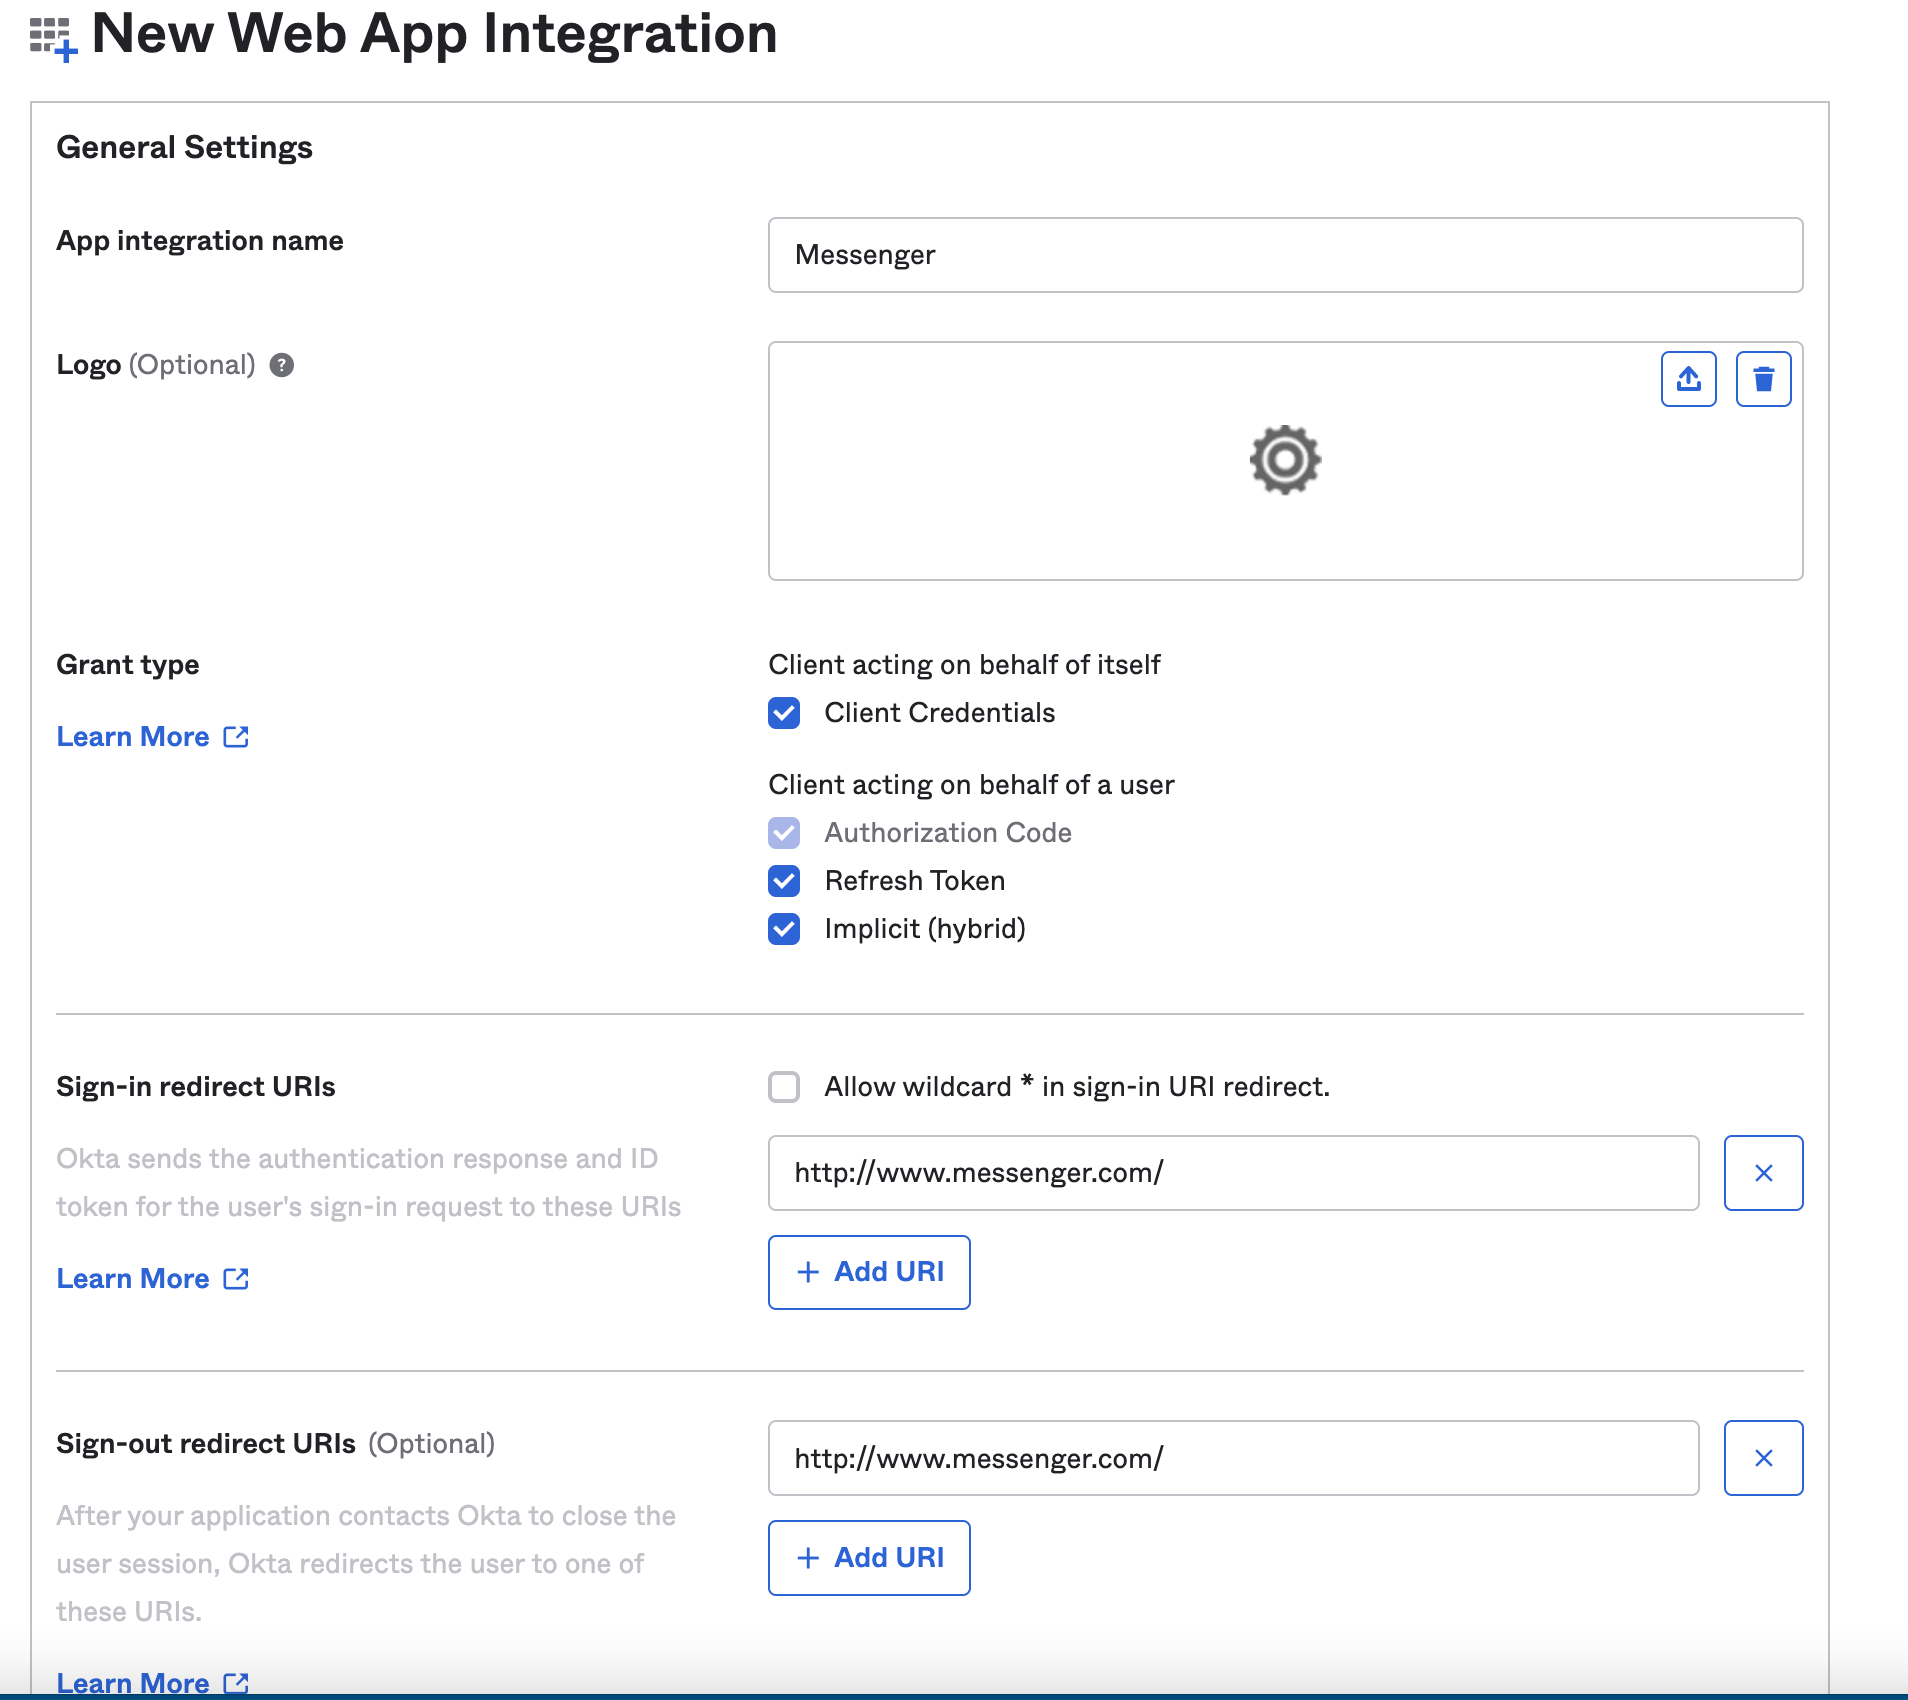
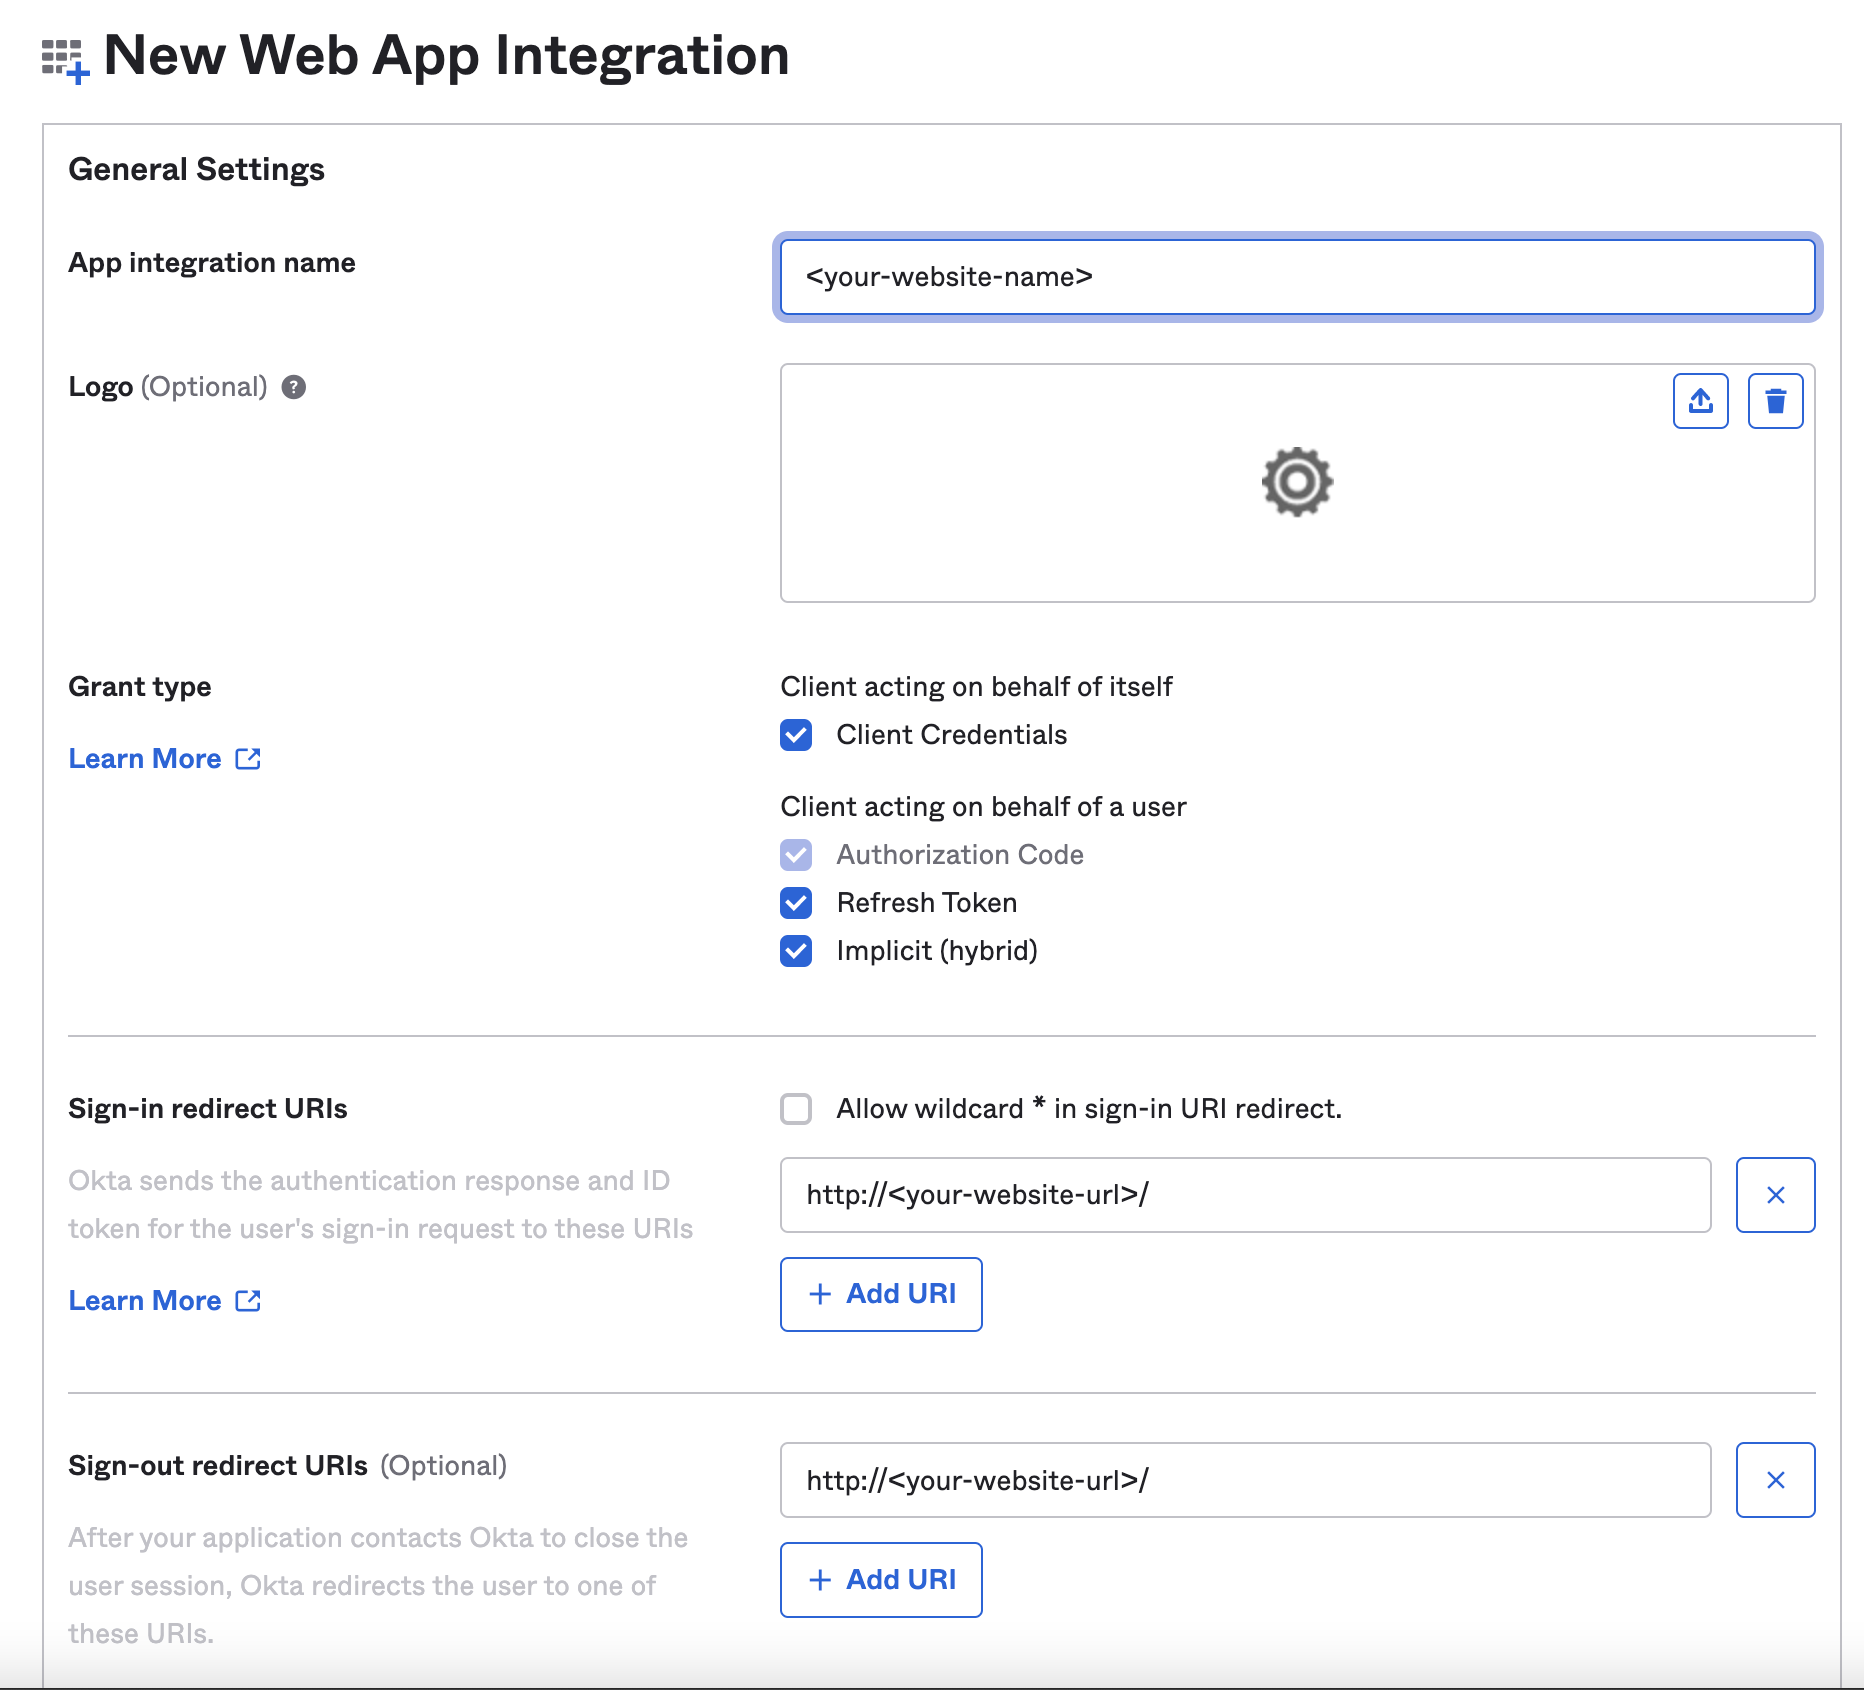
WEBMESS-601 : Blueprint Review comments

diff --git a/blueprint/index-draft.md b/blueprint/index-draft.md
@@ -62,12 +62,11 @@ Follow these instructions to integrate OKTA with Messenger.
       - Select the required **Grant type**. 
       - Fill **Sign-in redirect URIs**. For local development use - http://{local_domain_name}. Example: http://  localhost:8080/
       - Similarly, fill **Sign-out redirect URIs**(http://{local_domain_name}).
+      *Note: Using localhost is just a way to test locally. This has to be the actual URL where messenger will initialize after login*
 
 ![OKTA Application](./images/OKTA.png "OKTA Application page")
 
-7. In Assignments, leave **Allow everyone in your organization to access**  as default and click Save. This creates the client credentials.
-
-![OKTA Application](./images/Assignment.png "OKTA Application page")
+7. In Assignments, select options which best suites your organization and click Save. This creates the client credentials.
 
 8. Store the Client credentials safely for using it in [Integration](#integration "Goes to Integration").
 9. Now you are ready with **OKTA** set-up.

diff --git a/README.md b/README.md
@@ -1,4 +1,4 @@
-# Integrate Messenger with OKTA
+# Integrate Messenger with OKTA - Identity Provider
 
 > View the full [OKTA Integration with Messenger on Genesys Cloud Blueprint article](https://developer.mypurecloud.com/blueprints/messenger-blueprint/) on the Genesys Cloud Developer Center.
 
